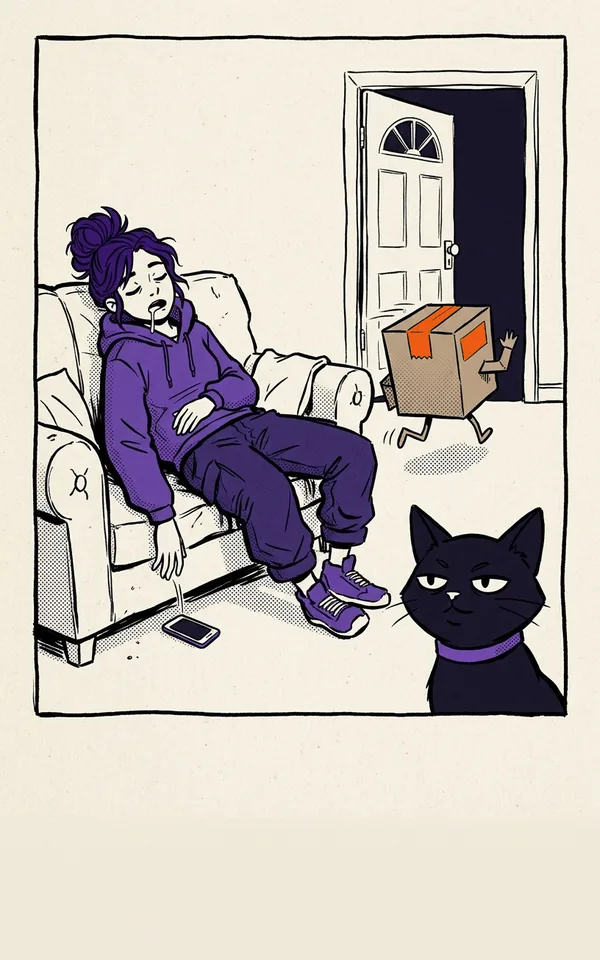
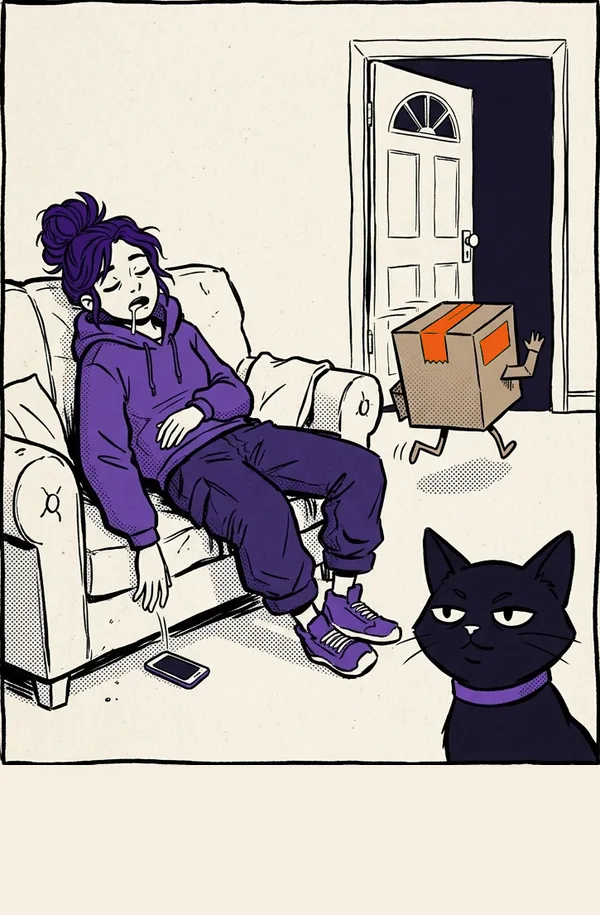
Encarts : correction du clignotement (apparition jouee une seule fois, mesure par parking sans masquage), visuels a hauteur naturelle (ratio par encart 600x915/1030/1151), sauvegarde des anciens dans originaux/, tests

diff --git a/public/js/encarts.js b/public/js/encarts.js
@@ -29,7 +29,7 @@ var ENCARTS = [
   {
     id: 'aurores', actif: true, slug: 'aurores-france',
     titre: "Comment ça, c'était hier, l'aurore boréale ?",
-    texte: "Un ciel vert au-dessus de la France, tout le monde le savait… sauf toi. Cette fois, on te siffle avant.",
+    texte: "Un ciel vert au-dessus de la France, tout le monde le savait… sauf toi.",
     bouton: 'Surveiller le ciel',
     alt: 'Illustration : un ciel nocturne teinté de vert au-dessus de la France.',
   },
@@ -146,8 +146,10 @@ if (typeof document !== 'undefined' && typeof window !== 'undefined') {
       return out;
     }
 
-    function hide() { if (el) { el.classList.remove('is-placed'); el.style.display = 'none'; } }
-    function show() { if (el) { el.style.display = ''; el.classList.add('is-placed'); } }
+    var revealed = false;               // l'animation d'apparition (encart-in) ne joue qu'UNE fois
+    function hide() { if (el) { el.style.display = 'none'; el.classList.remove('is-placed'); revealed = false; } }
+    function ensureVisible() { if (el && el.style.display === 'none') el.style.display = ''; } // sans animer
+    function reveal() { if (el && !revealed) { revealed = true; el.classList.add('is-placed'); } } // 1 seule fois
 
     function place() {
       if (!el) return;
@@ -160,18 +162,20 @@ if (typeof document !== 'undefined' && typeof window !== 'undefined') {
         if (cardsM.length < MIN_CARDS_MOBILE) { hide(); return; }
         var anchor = cardsM[2];
         if (anchor && anchor.nextSibling !== el) g.insertBefore(el, anchor.nextSibling);
-        show();
+        ensureVisible(); reveal();
         return;
       }
 
       // Desktop : colonne 2 (mini-cartes), juste après la 2e mini-carte (.vc-side), via
-      // grid-row. On RETIRE d'abord l'encart du flux (display:none) pour mesurer les cartes
-      // SEULES — sinon un placement précédent de l'encart fausse la position de la 2e carte.
-      el.style.display = 'none'; el.classList.remove('is-placed');
-      el.style.gridRowStart = ''; el.style.gridRowEnd = '';
+      // grid-row. Pour mesurer les cartes SEULES sans clignoter, on GARE l'encart très bas
+      // (rangée hors de vue) au lieu de le masquer (display:none ré-animerait l'apparition à
+      // chaque passe de replacement). Il reste visible ; son placement final est posé plus bas.
+      ensureVisible();
+      el.style.gridColumn = '2';
+      el.style.gridRowStart = '9999'; el.style.gridRowEnd = '';
       var cards = visibleCards();
       var side = cards.filter(function (c) { return c.classList.contains('vc-side'); });
-      if (side.length < MIN_SIDE_DESKTOP) { return; } // trop peu / jamais en dernier → reste masqué
+      if (side.length < MIN_SIDE_DESKTOP) { hide(); return; } // trop peu / jamais en dernier → masqué
       var cs = window.getComputedStyle(g);
       var gTop = g.getBoundingClientRect().top + (parseFloat(cs.paddingTop) || 0);
       // La maçonnerie « dense » ne suit pas l'ordre du DOM : on trie les mini-cartes par
@@ -186,12 +190,10 @@ if (typeof document !== 'undefined' && typeof window !== 'undefined') {
       var spanM = (second.el.style.gridRowEnd || '').match(/\d+/);
       var span = spanM ? parseInt(spanM[0], 10) : Math.max(1, Math.ceil((second.rect.height + MARGIN) / ROW));
       var startRow = startOfSecond + span;
-      el.style.gridColumn = '2';
-      el.style.display = '';            // réintègre, puis on pose la rangée mesurée
-      el.style.gridRowStart = String(startRow);
-      var h = el.offsetHeight || 0;     // hauteur réelle une fois visible
+      el.style.gridRowStart = String(startRow);   // rangée finale (remplace le parking 9999)
+      var h = el.offsetHeight || 0;     // hauteur réelle (l'encart est déjà visible)
       if (h) el.style.gridRowEnd = 'span ' + Math.max(1, Math.ceil((h + MARGIN) / ROW));
-      el.classList.add('is-placed');
+      reveal();                          // animation d'apparition : une seule fois
     }
 
     function schedulePlace() { clearTimeout(placeT); placeT = setTimeout(place, 140); }

diff --git a/scripts/test-encarts.js b/scripts/test-encarts.js
@@ -30,7 +30,7 @@ const EXPECT = {
   },
   aurores: {
     titre: "Comment ça, c'était hier, l'aurore boréale ?",
-    texte: "Un ciel vert au-dessus de la France, tout le monde le savait… sauf toi. Cette fois, on te siffle avant.",
+    texte: "Un ciel vert au-dessus de la France, tout le monde le savait… sauf toi.",
     bouton: 'Surveiller le ciel',
   },
   echeances: {
@@ -89,17 +89,26 @@ ok(/class="encart-text"/.test(clientSrc) && /class="encart-cta"/.test(clientSrc)
 ok(/\/source\/'\s*\+\s*encodeURIComponent\(e\.slug\)\s*\+\s*'\/statut/.test(clientSrc), 'CTA → page de l’alerte /source/<slug>/statut (flux d’abonnement existant)');
 ok(clientSrc.indexOf('À découvrir') !== -1 && /createElement\('article'\)/.test(clientSrc), 'encart = <article> aria-label « À découvrir »');
 
-// ── 5b) CSS : image PORTRAIT 5/8 plein cadre + overlay (titre scrim / panneau beige) ──
+// ── 5c) Anti-clignotement : l'apparition (is-placed) ne joue qu'UNE fois et la mesure ne
+//      masque plus l'encart (display:none ré-animait à chaque passe) → parking hors de vue ──
+ok(/var\s+revealed\s*=\s*false/.test(clientSrc) && /!revealed[\s\S]{0,60}add\(\s*['"]is-placed['"]/.test(clientSrc), 'is-placed ajouté une seule fois (drapeau revealed)');
+ok(!/style\.display\s*=\s*['"]none['"][\s\S]{0,120}visibleCards\(\)/.test(clientSrc), 'plus de display:none juste avant la mesure des cartes (desktop)');
+ok(/gridRowStart\s*=\s*['"]9999['"]/.test(clientSrc), 'mesure par parking (gridRowStart 9999), pas par masquage');
+
+// ── 5b) CSS : image portrait PAR ENCART (hauteur naturelle) + overlay (titre scrim / panneau beige) ──
 const cssSrc = fs.readFileSync(path.join(__dirname, '..', 'public', 'css', 'site.css'), 'utf8');
-ok(/\.encart-media\s*\{[^}]*aspect-ratio:\s*5\s*\/\s*8/.test(cssSrc), '.encart-media en ratio 5/8 (portrait)');
-ok(!/\.encart-media\s*\{[^}]*aspect-ratio:\s*16\s*\/\s*10/.test(cssSrc), 'plus de ratio 16/10 sur .encart-media');
+ok(!/aspect-ratio:\s*5\s*\/\s*8/.test(cssSrc), 'plus de ratio fixe 5/8 (hauteur naturelle par encart)');
+ok(/\n\.encart-media\s*\{(?:(?!aspect-ratio)[^}])*\}/.test(cssSrc), '.encart-media générique sans aspect-ratio (posé par encart)');
+ok(/\.encart\[data-encart-id="livraison-1e"\]\s*\.encart-media\s*\{[^}]*aspect-ratio:\s*600\s*\/\s*915/.test(cssSrc), 'ratio par encart : livraison-1e 600/915');
+ok(/\.encart\[data-encart-id="aurores"\]\s*\.encart-media\s*\{[^}]*aspect-ratio:\s*600\s*\/\s*1030/.test(cssSrc), 'ratio par encart : aurores 600/1030');
+ok(/\.encart\[data-encart-id="echeances"\]\s*\.encart-media\s*\{[^}]*aspect-ratio:\s*600\s*\/\s*1151/.test(cssSrc), 'ratio par encart : echeances 600/1151');
 ok(/\.encart\s*\{[^}]*position:\s*relative/.test(cssSrc), '.encart en position relative (ancre les calques)');
 ok(/\.encart-title\s*\{[^}]*position:\s*absolute/.test(cssSrc), 'titre en overlay absolu (par-dessus l’image)');
 ok(/\.encart-panel\s*\{[^}]*position:\s*absolute[^}]*bottom:\s*0/.test(cssSrc), 'panneau en overlay absolu, ancré en bas');
 ok(/--encart-panel-bg/.test(cssSrc) && /--encart-panel-ink/.test(cssSrc), 'fond beige + encre du panneau en variables (clair/sombre)');
 ok(/--encart-scrim-h/.test(cssSrc) && /--encart-panel-h/.test(cssSrc), 'scrim/panneau réglables par encart (variables CSS)');
 ok(/\.encart-cta\s*\{[^}]*align-self:\s*flex-end/.test(cssSrc), 'bouton aligné à droite dans le panneau');
-ok(/\.encart-media[^{]*\{[^}]*max-height:\s*70vh/.test(cssSrc), 'mobile : hauteur d’image plafonnée (max-height 70vh)');
+ok(/\.encart\[data-encart-id\]\s*\.encart-media\s*\{[^}]*max-height:\s*\d+vh/.test(cssSrc), 'mobile : hauteur d’image plafonnée (max-height Nvh)');
 
 // ── 6) Injection serveur : attributs <html> data-lba-encart-img / -test ──
 process.env.NODE_ENV = 'test';

diff --git a/public/css/site.css b/public/css/site.css
@@ -5616,8 +5616,13 @@ html[data-theme="dark"] .encart {
 @keyframes encart-in { from { opacity: 0; transform: translateY(6px); } to { opacity: 1; transform: none; } }
 @media (prefers-reduced-motion: reduce) { .encart.is-placed { animation: none; } }
 
-/* Zone image : PORTRAIT ratio 5/8 (visuels 600×960), plein cadre, object-fit cover. */
-.encart-media { display: block; width: 100%; aspect-ratio: 5 / 8; overflow: hidden; }
+/* Zone image : chaque visuel garde sa HAUTEUR NATURELLE. L'aspect-ratio est posé PAR ENCART
+   (ci-dessous), AVANT le chargement de l'image → la boîte réserve sa taille, aucun reflow ni
+   clignotement quand l'image arrive. Largeur de référence : 600 px. */
+.encart-media { display: block; width: 100%; overflow: hidden; }
+.encart[data-encart-id="livraison-1e"] .encart-media { aspect-ratio: 600 / 915; }
+.encart[data-encart-id="aurores"]      .encart-media { aspect-ratio: 600 / 1030; }
+.encart[data-encart-id="echeances"]    .encart-media { aspect-ratio: 600 / 1151; }
 .encart-media img { display: block; width: 100%; height: 100%; object-fit: cover; object-position: center top; }
 /* Fallback sans image : dégradé maison, distinct par encart. Le titre/panneau restent lisibles. */
 .encart-media--placeholder { background: linear-gradient(135deg, #a567e3, #6f57d6); }
@@ -5668,7 +5673,7 @@ html[data-theme="dark"] .encart {
    pleine largeur, sans placement de rangée. L'image portrait est plafonnée et centrée. */
 @media (max-width: 640px) {
   .encart { grid-column: auto; max-width: none; }
-  .encart-media { aspect-ratio: auto; max-height: 70vh; }
-  .encart-media img { height: auto; max-height: 70vh; margin: 0 auto; object-position: center top; }
-  .encart-media--placeholder { aspect-ratio: 5 / 8; max-height: 70vh; }
+  /* L'aspect-ratio par encart est conservé ; on plafonne seulement la hauteur pour que
+     l'encart ne prenne pas tout l'écran (le panneau bas reste visible, image rognée en bas). */
+  .encart[data-encart-id] .encart-media { max-height: 78vh; }
 }
